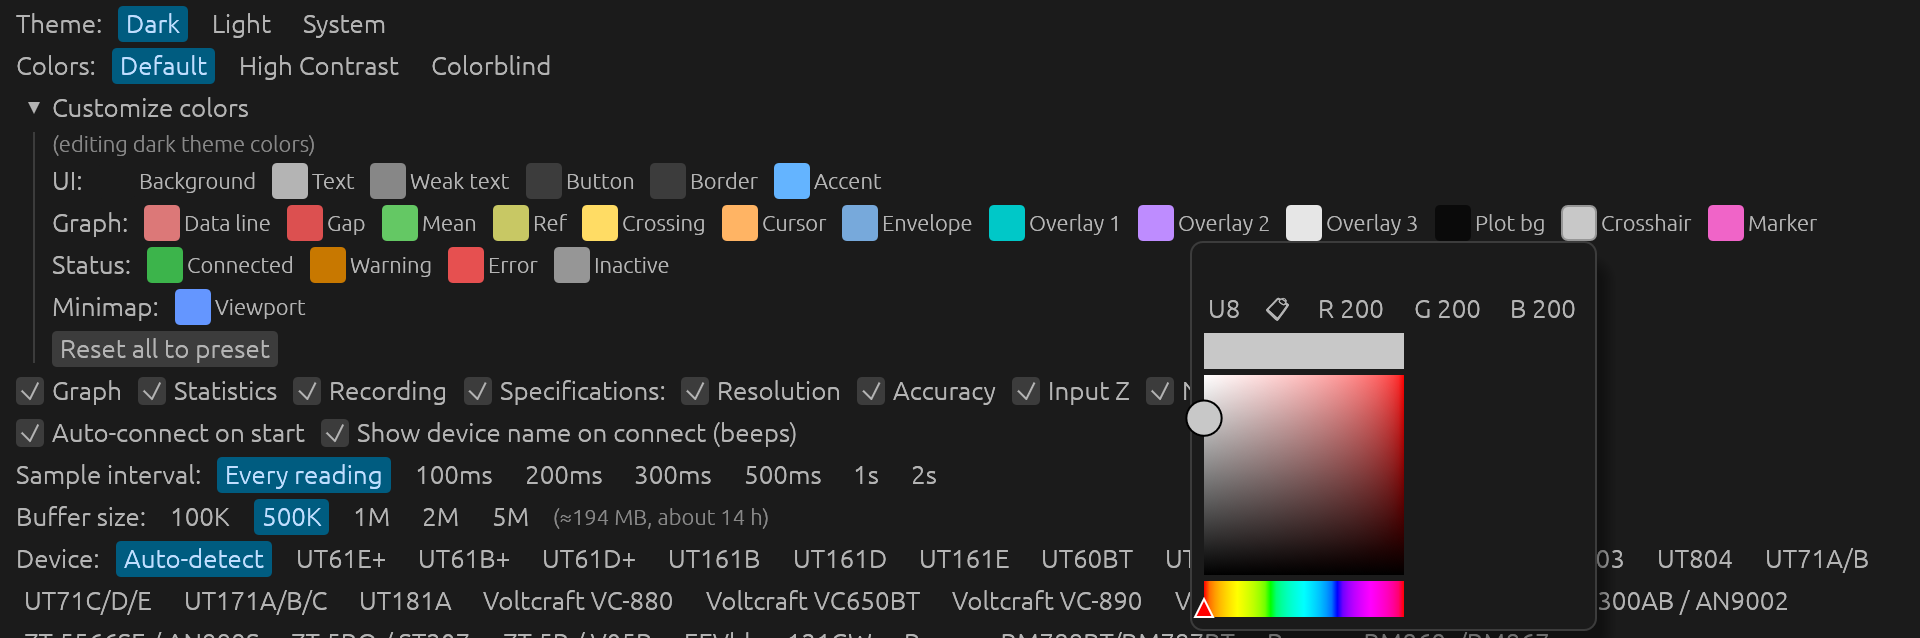
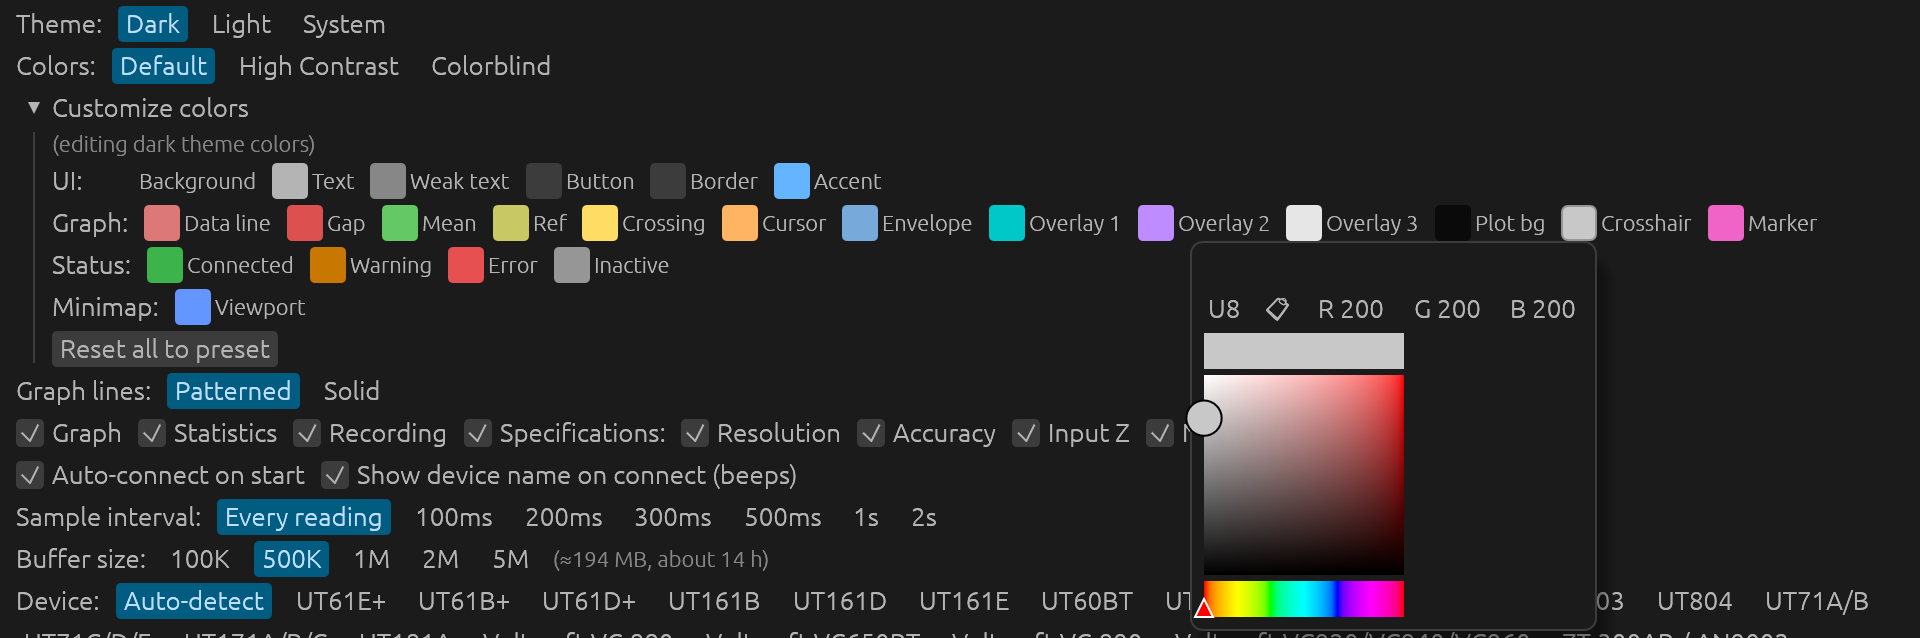
gui: offer solid sub-value lines in Settings
Dashes and dots keep sub-values apart without colour, but busier and
harder to read for anyone who doesn't need that. Graph lines: Solid
draws data lines continuous; mean, reference, envelope, cursor, marker
and data-loss lines keep their patterns, which set them apart from data.

diff --git a/crates/dmm-gui/src/graph/render.rs b/crates/dmm-gui/src/graph/render.rs
@@ -555,6 +555,10 @@ const AXIS_TICK_SPACING: f32 = 50.0;
 /// either side of the text, plus a pixel of air.
 const RIGHT_AXIS_MARGIN: f32 = 9.0;
 
+/// Colours the palette has for sub-value traces before they repeat
+/// (`ThemeColors::graph_overlay`).
+const OVERLAY_COLORS: usize = 3;
+
 /// Rows of stacked right-axis labels: a gap of this many points between
 /// one gridline's stack and the next.
 const STACK_GAP: f32 = 6.0;
@@ -857,12 +861,16 @@ impl Graph {
     /// Keyed on the overlay's index — never on a hash of its label, which
     /// would reshuffle the palette when a sub-value appears or disappears
     /// mid-capture. The line style carries the same information without
-    /// colour, as `.claude/rules/gui.md` requires.
-    fn overlay_color_and_style(
+    /// colour, as `.claude/rules/gui.md` requires — unless the user chose
+    /// solid lines (`solid`, Settings → Graph lines). Even then a fourth
+    /// trace, which shares the first one's colour, keeps its pattern.
+    pub(super) fn overlay_color_and_style(
         tc: &ThemeColors,
         index: usize,
+        solid: bool,
     ) -> (egui::Color32, egui_plot::LineStyle) {
         let style = match index % 4 {
+            _ if solid && index < OVERLAY_COLORS => egui_plot::LineStyle::Solid,
             0 => egui_plot::LineStyle::dashed_loose(),
             1 => egui_plot::LineStyle::dotted_loose(),
             2 => egui_plot::LineStyle::dashed_dense(),
@@ -937,6 +945,7 @@ impl Graph {
         plot_rect: egui::Rect,
         entries: &[(String, KeyStyle)],
         tc: &ThemeColors,
+        solid: bool,
     ) -> Option<egui::Rect> {
         if entries.is_empty() {
             return None;
@@ -981,7 +990,7 @@ impl Graph {
             let mid = top + row_height / 2.0;
             let (color, line_style) = match style {
                 KeyStyle::Plotted => (tc.graph_line(), egui_plot::LineStyle::Solid),
-                KeyStyle::Overlay(k) => Self::overlay_color_and_style(tc, *k),
+                KeyStyle::Overlay(k) => Self::overlay_color_and_style(tc, *k, solid),
             };
             painter.extend(key_line_sample(
                 egui::pos2(rect.left() + PAD, mid),
@@ -1216,6 +1225,7 @@ impl Graph {
 
         // Theme-aware colors from shared palette
         let line_color = tc.graph_line();
+        let solid_lines = self.solid_lines;
         let gap_color = tc.graph_gap();
         let overload_edge = tc.graph_overload();
         let overload_fill = tc.graph_overload_fill();
@@ -1502,7 +1512,7 @@ impl Graph {
             // Sub-values first: the plotted series goes on top of them. One in
             // another unit is drawn at its axis's heights.
             for ((k, label, segments), map) in overlay_traces.iter().zip(&trace_maps) {
-                let (color, style) = Self::overlay_color_and_style(tc, *k);
+                let (color, style) = Self::overlay_color_and_style(tc, *k, solid_lines);
                 for seg in segments {
                     let mut points = thin(seg);
                     if let Some(map) = map {
@@ -1645,10 +1655,15 @@ impl Graph {
         };
         // The key and the flags first: the labels lay themselves out around
         // them.
-        let mut taken: Vec<egui::Rect> =
-            Self::paint_plot_key(ui, response.response.rect, &key_entries, tc)
-                .into_iter()
-                .collect();
+        let mut taken: Vec<egui::Rect> = Self::paint_plot_key(
+            ui,
+            response.response.rect,
+            &key_entries,
+            tc,
+            self.solid_lines,
+        )
+        .into_iter()
+        .collect();
         let (clicked_marker, flags) = Self::paint_marker_flags(
             ui,
             &response.transform,

diff --git a/crates/dmm-gui/src/settings.rs b/crates/dmm-gui/src/settings.rs
@@ -113,6 +113,16 @@ pub enum ColorPreset {
     ColorblindSafe,
 }
 
+/// How the graph tells its data lines apart. Patterned by default: dashes and
+/// dots keep sub-values distinct without colour (`ux-design.md`,
+/// Accessibility); solid is the opt-out for those who don't need that.
+#[derive(Debug, Clone, Copy, PartialEq, Eq, Serialize, Deserialize, Default)]
+pub enum GraphLines {
+    #[default]
+    Patterned,
+    Solid,
+}
+
 /// A color that serializes as a hex string (`"#RRGGBB"` or `"#RRGGBBAA"`).
 #[derive(Debug, Clone, Copy, PartialEq, Eq)]
 pub struct HexColor(pub Color32);
@@ -354,6 +364,9 @@ pub struct Settings {
     /// Per-color overrides (dark and light themes independently).
     #[serde(default)]
     pub color_overrides: ColorOverrides,
+    /// How sub-value lines are drawn on the graph.
+    #[serde(default)]
+    pub graph_lines: GraphLines,
     /// Last version the user has seen the "What's New" dialog for.
     /// `None` means the user has never dismissed it (new install or pre-feature upgrade).
     #[serde(default)]
@@ -415,6 +428,7 @@ impl Default for Settings {
             mock_mode: String::new(),
             color_preset: ColorPreset::Default,
             color_overrides: ColorOverrides::default(),
+            graph_lines: GraphLines::Patterned,
             last_seen_version: None,
             check_for_updates: default_check_for_updates(),
             last_folder: None,
@@ -605,11 +619,12 @@ mod tests {
     }
 
     /// A file from before hidden traces were remembered hides none, and an
-    /// empty set writes nothing.
+    /// empty set writes nothing. Nor did it choose solid lines.
     #[test]
     fn no_hidden_traces_by_default() {
         let s: Settings = serde_json::from_str(r#"{"theme":"Light"}"#).unwrap();
         assert!(s.hidden_series.is_empty());
+        assert_eq!(s.graph_lines, GraphLines::Patterned);
         let json = serde_json::to_string(&Settings::default()).unwrap();
         assert!(!json.contains("hidden_series"), "{json}");
     }
@@ -708,6 +723,7 @@ mod tests {
             mock_mode: "dcv".to_string(),
             color_preset: ColorPreset::HighContrast,
             color_overrides: ColorOverrides::default(),
+            graph_lines: GraphLines::Solid,
             last_seen_version: Some("0.3.0".to_string()),
             check_for_updates: false,
             last_folder: Some(PathBuf::from("/data/bench")),
@@ -721,6 +737,7 @@ mod tests {
         let json = serde_json::to_string(&s).unwrap();
         let deserialized: Settings = serde_json::from_str(&json).unwrap();
         assert_eq!(deserialized.hidden_series, s.hidden_series);
+        assert_eq!(deserialized.graph_lines, GraphLines::Solid);
         assert_eq!(deserialized.theme, ThemeMode::Light);
         assert!(!deserialized.show_graph);
         assert!(deserialized.show_stats);

diff --git a/crates/dmm-gui/src/app/controls.rs b/crates/dmm-gui/src/app/controls.rs
@@ -5,8 +5,8 @@ use eframe::egui::{self, RichText, Ui};
 
 use crate::a11y::ResponseA11yExt;
 use crate::settings::{
-    ColorOverrides, ColorPreset, HexColor, SpecFields, ThemeMode, buffer_memory_estimate,
-    format_sample_count,
+    ColorOverrides, ColorPreset, GraphLines, HexColor, SpecFields, ThemeMode,
+    buffer_memory_estimate, format_sample_count,
 };
 use crate::theme::{PaletteField, PaletteGroup, ThemeColors};
 
@@ -570,6 +570,32 @@ impl App {
 
         // -- Collapsible color customization --
         self.show_color_customization(ui);
+
+        // -- Graph line style --
+        ui.horizontal_wrapped(|ui| {
+            let chips = [
+                (
+                    GraphLines::Patterned,
+                    "Patterned",
+                    "Dashed and dotted sub-value lines, told apart without colour",
+                ),
+                (
+                    GraphLines::Solid,
+                    "Solid",
+                    "Continuous lines, told apart by colour and the key",
+                ),
+            ]
+            .map(|(value, label, tooltip)| Chip {
+                value,
+                selected: self.settings.graph_lines == value,
+                label: label.to_string(),
+                tooltip: tooltip.to_string(),
+            });
+            if let Some(lines) = chip_row(ui, "Graph lines:", chips) {
+                self.settings.graph_lines = lines;
+                self.settings.save();
+            }
+        });
 
         ui.horizontal_wrapped(|ui| {
             let changed = setting_checkbox(

diff --git a/crates/dmm-gui/src/graph/tests.rs b/crates/dmm-gui/src/graph/tests.rs
@@ -2285,6 +2285,26 @@ fn the_overlay_palette_follows_the_kept_order() {
     assert_eq!(slots(&g), named(&[(0, "Frequency"), (2, "Max")]));
 }
 
+/// Solid lines take a sub-value's pattern away and keep its colour, but a
+/// fourth, sharing the first one's colour, keeps its pattern; patterned
+/// lines are never solid, as colour alone isn't enough.
+#[test]
+fn solid_lines_keep_colours_and_drop_patterns() {
+    let tc = ThemeColors::new(true, ColorPreset::Default, &PaletteOverrides::default());
+    for k in 0..4 {
+        let (patterned_color, patterned) = Graph::overlay_color_and_style(&tc, k, false);
+        let (solid_color, solid) = Graph::overlay_color_and_style(&tc, k, true);
+        assert_ne!(patterned, egui_plot::LineStyle::Solid);
+        assert_eq!(solid_color, patterned_color);
+        if k < 3 {
+            assert_eq!(solid, egui_plot::LineStyle::Solid);
+        } else {
+            assert_eq!(tc.graph_overlay(k), tc.graph_overlay(0));
+            assert_eq!(solid, patterned, "the fourth keeps its pattern");
+        }
+    }
+}
+
 /// One sample of a V reading beside a sub-value in each of `units`.
 fn push_units(g: &mut Graph, t: Instant, units: &[(&'static str, &'static str)]) {
     let overlays: Vec<_> = units.iter().map(|&(l, u)| (l, u, Some(1.0))).collect();

diff --git a/crates/dmm-gui/src/app/recording_panel.rs b/crates/dmm-gui/src/app/recording_panel.rs
@@ -12,7 +12,7 @@ use super::toast::Toast;
 use super::{App, ConnectionState};
 use crate::a11y::ResponseA11yExt;
 use crate::recording::BufferRole;
-use crate::settings::MIN_RECORDING_HEIGHT;
+use crate::settings::{GraphLines, MIN_RECORDING_HEIGHT};
 
 /// The arrow segment of the Export… split button (U+23F7, in egui's icon
 /// font like the `⏵` its submenus use).
@@ -611,6 +611,7 @@ impl App {
         // reads `self.settings`, which the borrow checker would otherwise
         // see as overlapping.
         let tc = self.settings.theme_colors(ui.visuals().dark_mode);
+        self.graph.solid_lines = self.settings.graph_lines == GraphLines::Solid;
         if self.settings.show_graph && self.settings.show_recording {
             let total = ui.available_height();
             let graph_height = (total - self.settings.recording_height).max(80.0);

diff --git a/crates/dmm-gui/src/graph/mod.rs b/crates/dmm-gui/src/graph/mod.rs
@@ -275,6 +275,9 @@ pub struct Graph {
     /// A **Show:** chip the user clicked since the last call, with whether
     /// it is now hidden — see [`Graph::take_trace_choice`].
     trace_choice: Option<(String, bool)>,
+    /// Sub-value lines drawn solid rather than dashed and dotted, as the
+    /// user chose in Settings → Graph lines.
+    pub(crate) solid_lines: bool,
     /// How many units' axes fit the graph's width, from the last frame: see
     /// [`Graph::axis_units`].
     axis_room: usize,
@@ -433,6 +436,7 @@ impl Graph {
             hidden_overlays: HashSet::new(),
             main_hidden: false,
             trace_choice: None,
+            solid_lines: false,
             axis_room: MAX_AXES,
             series_options: Vec::new(),
             last_display_raw: None,

diff --git a/docs/future-improvements.md b/docs/future-improvements.md
@@ -329,7 +329,7 @@ Zoomed out to many samples per pixel, a noisy trace's edges shimmer slightly as 
 
 **Complexity:** Medium
 
-Zoomed out on a noisy sub-value, its dashes merge into a solid band, so only colour tells it from the plotted series, against the rule that colour is never the only cue. A fix must keep every extreme visible: dashes laid along time were tried and drop a one-sample spike or a vertical Min/Max step that falls in a gap. Candidates are a lighter fill or an outline for a dense band.
+Zoomed out on a noisy sub-value, its dashes merge into a solid band, so only colour tells it from the plotted series, against the rule that colour is never the only cue. A fix must keep every extreme visible: dashes laid along time were tried and drop a one-sample spike or a vertical Min/Max step that falls in a gap. Candidates are a lighter fill or an outline for a dense band. **Graph lines: Solid** sidesteps it for those who chose it.
 
 ### Sub-value traces across a prefix step
 

diff --git a/CHANGELOG.md b/CHANGELOG.md
@@ -27,6 +27,7 @@
 - **The top bar names the link the meter is on** — `UT61E+ · USB cable` or `UT61E+ · Bluetooth`.
 - **Switching Plot: keeps the graph** — such as T1 and T2, or a UT181A's voltage and its frequency; it restarted empty.
 - **The graph draws sub-values in other units on Y axes of their own** — such as a UT181A's frequency and period beside its voltage; hidden traces stay hidden at the next launch.
+- **Graph lines can be drawn solid** — a setting for those who don't need sub-values told apart without colour.
 - **A UT181A's reading and sub-values are named, such as T1 or AC** — the graph called them Main, Aux1 and Aux2.
 - **The GUI uses less CPU while connected or zoomed out, and none while paused** — it redrew up to three times per reading, ten times a second while paused, and drew every sample of a zoomed-out graph.
 - **A new Sample interval takes effect at once** — it waited for a reconnect.

diff --git a/docs/gui-reference.md b/docs/gui-reference.md
@@ -442,6 +442,7 @@ Opened via the gear icon. Persisted to `~/.config/dmm-tools/settings.json` on Li
 |---|---|---|
 | **Theme** | Dark | Dark, Light, or System (follows the desktop's light/dark setting, falling back to Dark if it reports none) |
 | **Colors** | Default | Color preset: Default, High Contrast, Colorblind. See [Color Customization](#color-customization) below. |
+| **Graph lines** | Patterned | How sub-value lines are drawn: **Patterned** dashes and dots them so they can be told apart without colour; **Solid** draws them continuous, told apart by colour and the plot key (a fourth sub-value, sharing the first one's colour, keeps its dashes). Mean, reference, envelope, cursor, marker and data-loss lines keep their patterns. |
 | **Graph** | on | Toggle graph panel visibility |
 | **Statistics** | on | Toggle statistics panel visibility |
 | **Recording** | on | Toggle recording panel visibility |

diff --git a/docs/ux-design.md b/docs/ux-design.md
@@ -144,7 +144,10 @@ changes (`ExportFormat` in `app/export.rs`).
 **Never colour alone.** Flag badges are bold, the status dot has its text, an
 imported session's ring shape says no meter is attached, a toast carries a
 glyph, overlay traces differ by dash pattern, and with a right axis the plot
-key and every tick name their unit.
+key and every tick name their unit. **Graph lines: Solid** gives up the dash
+patterns for those who don't need them, on data lines only: the mean,
+reference, envelope, cursor, marker and data-loss lines keep theirs, which
+are what tell them from data and from each other.
 
 **11 pt floor.** egui's small text style ships at 9 pt, so it is raised to
 11 pt once at startup rather than avoided per call site (`SMALL_TEXT_SIZE` in
